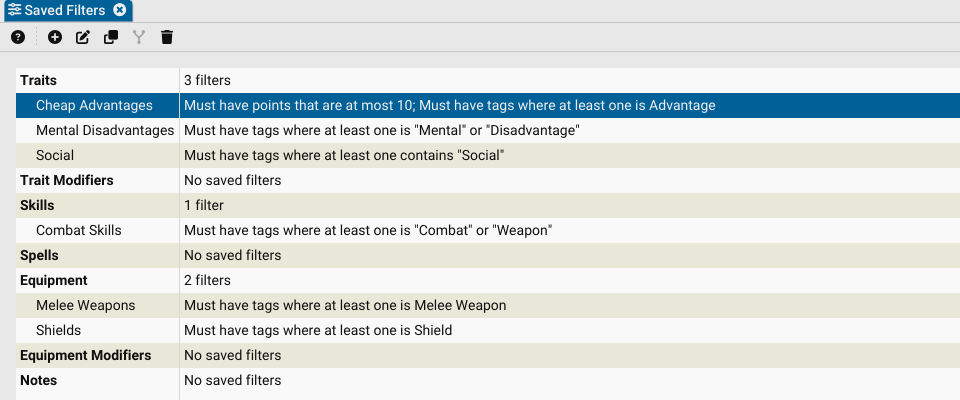
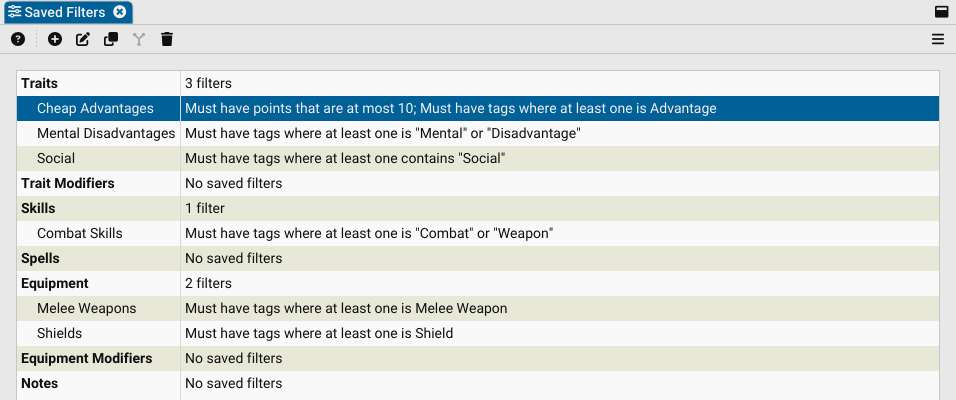
User Guide: Update the Saved Filters page for the review fixes
Selecting a list type selects its filters, the Delete key deletes, the merge icon is redrawn and the screenshot shows the list's new border.

Changed region(s): [[0.0, 0.18, 1.0, 0.99], [0.0, 0.0, 1.0, 0.15]]

diff --git a/Library/Markdown/User Guide/Saved Filters.md b/Library/Markdown/User Guide/Saved Filters.md
@@ -57,7 +57,8 @@ The filters are listed under their list type, with a summary of each filter's co
 
 ![The Saved Filters settings](images/screenshots/scrn-gcs-savedFilters.png)
 
-Select one or more filters, then use the toolbar. Right-click a filter for the same commands.
+Select one or more filters, then use the toolbar. Selecting a list type selects all of its filters. Right-click a
+filter for the same commands.
 
 - **New Filter** ![add](images/icons/icn-add.svg): Choose a list type, then build the filter in the editor.
 - **Edit Filter** ![edit](images/icons/icn-edit.svg): Open the selected filter in the editor. Double-clicking a filter
@@ -65,7 +66,7 @@ Select one or more filters, then use the toolbar. Right-click a filter for the s
 - **Duplicate** ![copy](images/icons/icn-copy.svg): Copy each selected filter. A copy is named after its source, such
   as _Social (2)_.
 - **Merge** ![merge](images/icons/icn-merge.svg): Combine two or more filters of the same list type into a new one.
-- **Delete** ![delete](images/icons/icn-delete.svg): Delete the selected filters.
+- **Delete** ![delete](images/icons/icn-delete.svg): Delete the selected filters. The Delete key does the same.
 
 Every change can be undone with **Edit > Undo**, including a change made from a list's saved filter dropdown while the
 Saved Filters settings are open.
